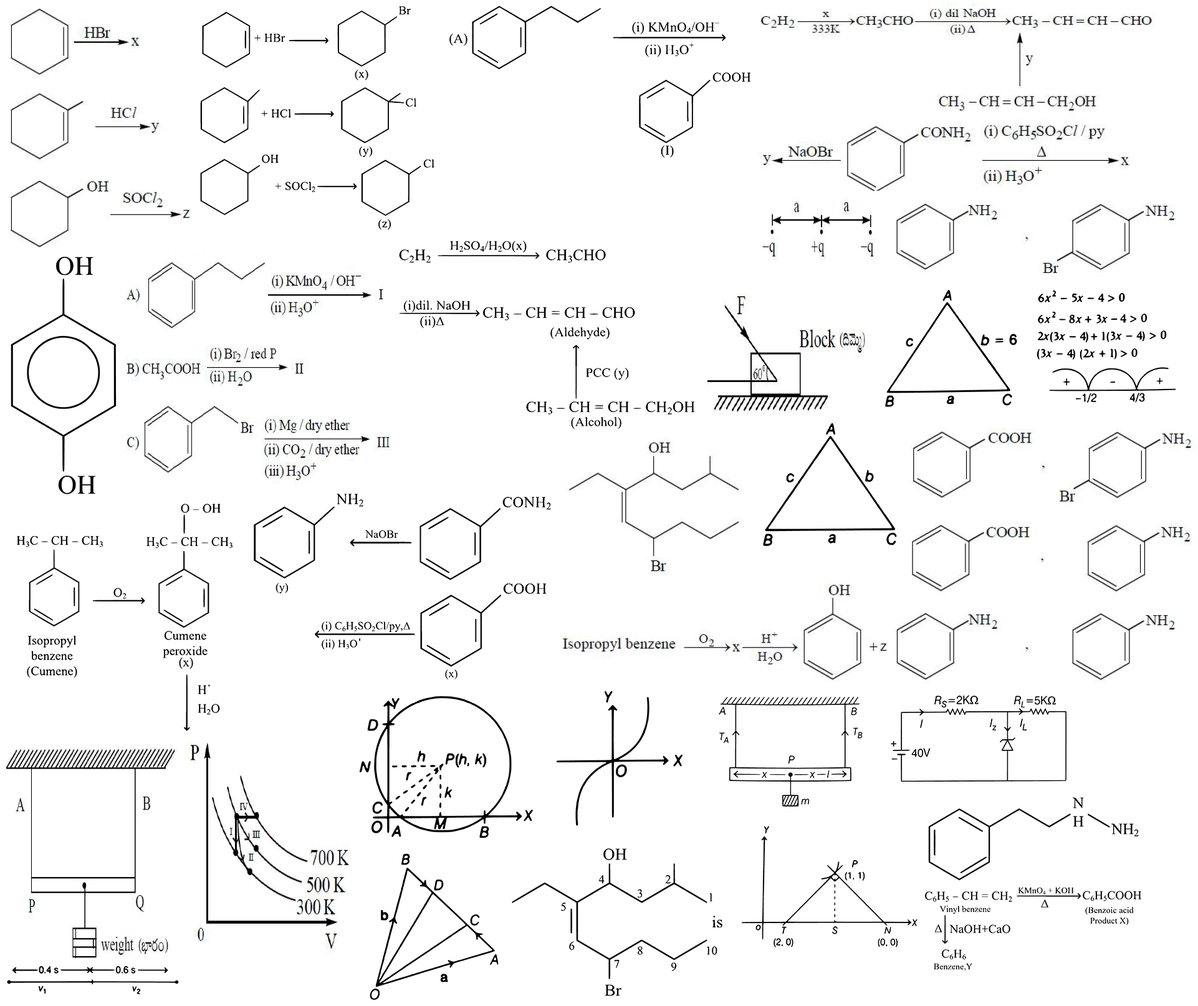
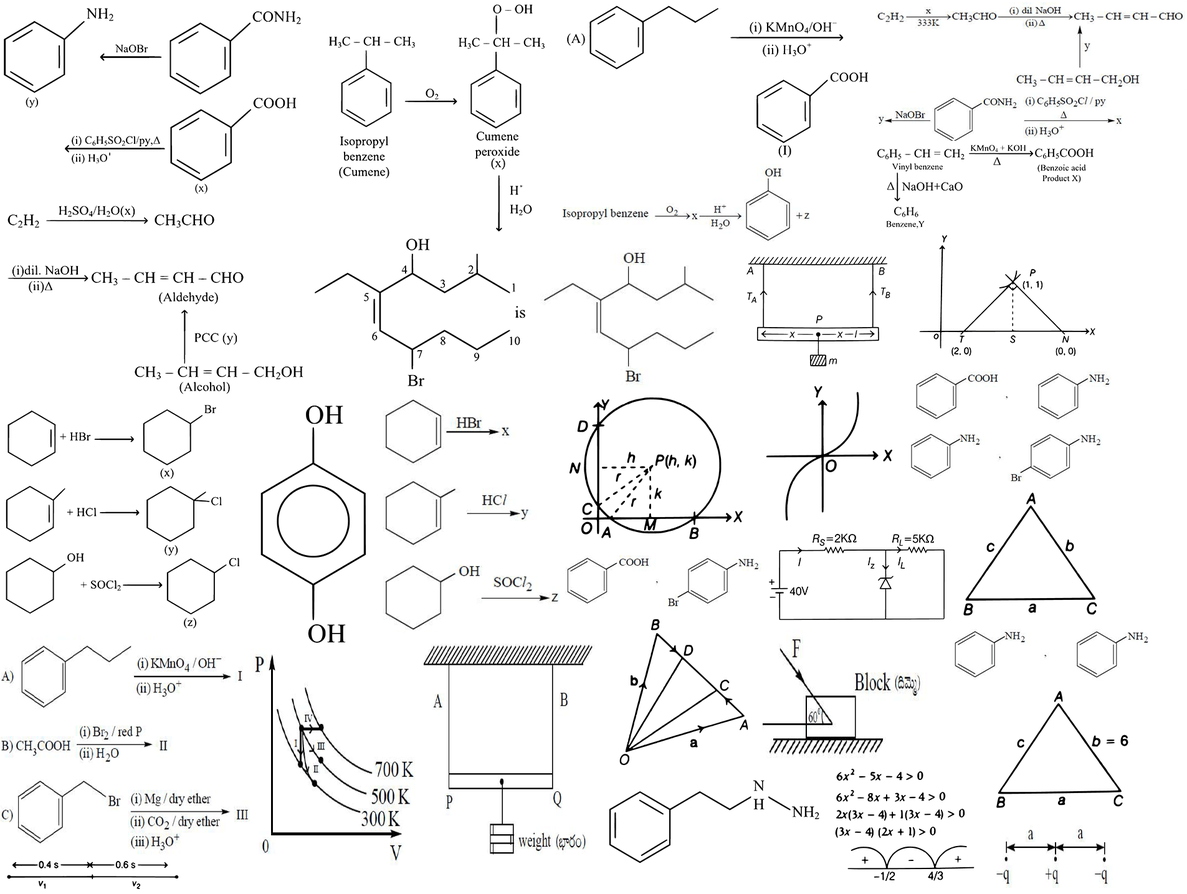
fexed

diff --git a/img/engg/eamcet/apeap/prev/eap21May2025s1.css b/img/engg/eamcet/apeap/prev/eap21May2025s1.css
@@ -7,117 +7,117 @@ Responsive: <div class="yourspritesname"></div>
 */
 
 .eap_21_may_2025_s1_q_105 {max-width:211px; max-height:120px; }
-.eap_21_may_2025_s1_q_105::after {content: '\00a0';display: inline-block; width:211px; height:120px; background-position: 70.36820572764465% 20.548862115127175%; background-size: 910.9004739336493% 1345%; background-image: url(eap21May2025s1_0.png);padding: 0; }
+.eap_21_may_2025_s1_q_105::after {content: '\00a0';display: inline-block; width:211px; height:120px; background-position: 93.27036599763872% 99.92395437262357%; background-size: 902.8436018957347% 1195.8333333333333%; background-image: url(eap21May2025s1_0.png);padding: 0; }
 div.eap_21_may_2025_s1_q_105::after {max-width:211px; width:100%;height:0;padding: 0 0 56.872037914691944% 0;}
 .eap_21_may_2025_s1_q_139 {max-width:300px; max-height:229px; }
-.eap_21_may_2025_s1_q_139::after {content: '\00a0';display: inline-block; width:300px; height:229px; background-position: 55.67200986436498% 50.324909747292416%; background-size: 640.6666666666666% 704.8034934497816%; background-image: url(eap21May2025s1_0.png);padding: 0; }
+.eap_21_may_2025_s1_q_139::after {content: '\00a0';display: inline-block; width:300px; height:229px; background-position: 53.769470404984425% 32.58706467661692%; background-size: 635% 626.6375545851529%; background-image: url(eap21May2025s1_0.png);padding: 0; }
 div.eap_21_may_2025_s1_q_139::after {max-width:300px; width:100%;height:0;padding: 0 0 76.33333333333333% 0;}
-.eap_21_may_2025_s1_q_156 {max-width:311px; max-height:400px; }
-.eap_21_may_2025_s1_q_156::after {content: '\00a0';display: inline-block; width:311px; height:400px; background-position: 0.06207324643078833% 0.08237232289950576%; background-size: 618.0064308681672% 403.5%; background-image: url(eap21May2025s1_0.png);padding: 0; }
-div.eap_21_may_2025_s1_q_156::after {max-width:311px; width:100%;height:0;padding: 0 0 128.61736334405145% 0;}
-.eap_21_may_2025_s1_q_157 {max-width:525px; max-height:171px; }
-.eap_21_may_2025_s1_q_157::after {content: '\00a0';display: inline-block; width:525px; height:171px; background-position: 64.63851109520401% 64.24116424116424%; background-size: 366.0952380952381% 943.859649122807%; background-image: url(eap21May2025s1_0.png);padding: 0; }
-div.eap_21_may_2025_s1_q_157::after {max-width:525px; width:100%;height:0;padding: 0 0 32.57142857142857% 0;}
-.eap_21_may_2025_s1_q_158 {max-width:640px; max-height:184px; }
-.eap_21_may_2025_s1_q_158::after {content: '\00a0';display: inline-block; width:640px; height:184px; background-position: 94.77379095163806% 0.06993006993006994%; background-size: 300.3125% 877.1739130434783%; background-image: url(eap21May2025s1_0.png);padding: 0; }
-div.eap_21_may_2025_s1_q_158::after {max-width:640px; width:100%;height:0;padding: 0 0 28.75% 0;}
-.eap_21_may_2025_s1_q_159 {max-width:426px; max-height:377px; }
-.eap_21_may_2025_s1_q_159::after {content: '\00a0';display: inline-block; width:426px; height:377px; background-position: 13.502673796791443% 32.49797898140663%; background-size: 451.1737089201878% 428.1167108753316%; background-image: url(eap21May2025s1_0.png);padding: 0; }
-div.eap_21_may_2025_s1_q_159::after {max-width:426px; width:100%;height:0;padding: 0 0 88.49765258215963% 0;}
-.eap_21_may_2025_s1_q_160 {max-width:602px; max-height:120px; }
-.eap_21_may_2025_s1_q_160::after {content: '\00a0';display: inline-block; width:602px; height:120px; background-position: 92.04545454545455% 12.449799196787149%; background-size: 319.2691029900332% 1345%; background-image: url(eap21May2025s1_0.png);padding: 0; }
-div.eap_21_may_2025_s1_q_160::after {max-width:602px; width:100%;height:0;padding: 0 0 19.93355481727575% 0;}
-.eap_21_may_2025_s1_q_160a {max-width:466px; max-height:148px; }
-.eap_21_may_2025_s1_q_160a::after {content: '\00a0';display: inline-block; width:466px; height:148px; background-position: 99.93131868131869% 45.70259208731242%; background-size: 412.44635193133047% 1090.5405405405406%; background-image: url(eap21May2025s1_0.png);padding: 0; }
-div.eap_21_may_2025_s1_q_160a::after {max-width:466px; width:100%;height:0;padding: 0 0 31.759656652360515% 0;}
-.eap_21_may_2025_s1_q_160b {max-width:461px; max-height:143px; }
-.eap_21_may_2025_s1_q_160b::after {content: '\00a0';display: inline-block; width:461px; height:143px; background-position: 99.58932238193019% 55.67641060503059%; background-size: 416.9197396963124% 1128.6713286713286%; background-image: url(eap21May2025s1_0.png);padding: 0; }
-div.eap_21_may_2025_s1_q_160b::after {max-width:461px; width:100%;height:0;padding: 0 0 31.019522776572668% 0;}
-.eap_21_may_2025_s1_q_160c {max-width:461px; max-height:143px; }
-.eap_21_may_2025_s1_q_160c::after {content: '\00a0';display: inline-block; width:461px; height:143px; background-position: 97.80971937029432% 65.46566961250849%; background-size: 416.9197396963124% 1128.6713286713286%; background-image: url(eap21May2025s1_0.png);padding: 0; }
-div.eap_21_may_2025_s1_q_160c::after {max-width:461px; width:100%;height:0;padding: 0 0 31.019522776572668% 0;}
-.eap_21_may_2025_s1_q_160d {max-width:470px; max-height:147px; }
-.eap_21_may_2025_s1_q_160d::after {content: '\00a0';display: inline-block; width:470px; height:147px; background-position: 98.4159779614325% 20.92706203135651%; background-size: 408.93617021276594% 1097.9591836734694%; background-image: url(eap21May2025s1_0.png);padding: 0; }
-div.eap_21_may_2025_s1_q_160d::after {max-width:470px; width:100%;height:0;padding: 0 0 31.27659574468085% 0;}
+.eap_21_may_2025_s1_q_156 {max-width:300px; max-height:386px; }
+.eap_21_may_2025_s1_q_156::after {content: '\00a0';display: inline-block; width:300px; height:386px; background-position: 37.570093457943926% 59.96186844613918%; background-size: 635% 371.7616580310881%; background-image: url(eap21May2025s1_0.png);padding: 0; }
+div.eap_21_may_2025_s1_q_156::after {max-width:300px; width:100%;height:0;padding: 0 0 128.66666666666666% 0;}
+.eap_21_may_2025_s1_q_157 {max-width:400px; max-height:130px; }
+.eap_21_may_2025_s1_q_157::after {content: '\00a0';display: inline-block; width:400px; height:130px; background-position: 60% 20.07662835249042%; background-size: 476.25% 1103.8461538461538%; background-image: url(eap21May2025s1_0.png);padding: 0; }
+div.eap_21_may_2025_s1_q_157::after {max-width:400px; width:100%;height:0;padding: 0 0 32.5% 0;}
+.eap_21_may_2025_s1_q_158 {max-width:500px; max-height:144px; }
+.eap_21_may_2025_s1_q_158::after {content: '\00a0';display: inline-block; width:500px; height:144px; background-position: 99.9288256227758% 0.07745933384972889%; background-size: 381% 996.5277777777778%; background-image: url(eap21May2025s1_0.png);padding: 0; }
+div.eap_21_may_2025_s1_q_158::after {max-width:500px; width:100%;height:0;padding: 0 0 28.8% 0;}
+.eap_21_may_2025_s1_q_159 {max-width:400px; max-height:354px; }
+.eap_21_may_2025_s1_q_159::after {content: '\00a0';display: inline-block; width:400px; height:354px; background-position: 0.0664451827242525% 94.26456984273821%; background-size: 476.25% 405.3672316384181%; background-image: url(eap21May2025s1_0.png);padding: 0; }
+div.eap_21_may_2025_s1_q_159::after {max-width:400px; width:100%;height:0;padding: 0 0 88.5% 0;}
+.eap_21_may_2025_s1_q_160 {max-width:400px; max-height:80px; }
+.eap_21_may_2025_s1_q_160::after {content: '\00a0';display: inline-block; width:400px; height:80px; background-position: 93.2890365448505% 10.77490774907749%; background-size: 476.25% 1793.75%; background-image: url(eap21May2025s1_0.png);padding: 0; }
+div.eap_21_may_2025_s1_q_160::after {max-width:400px; width:100%;height:0;padding: 0 0 20% 0;}
+.eap_21_may_2025_s1_q_160a {max-width:320px; max-height:102px; }
+.eap_21_may_2025_s1_q_160a::after {content: '\00a0';display: inline-block; width:320px; height:102px; background-position: 57.034700315457414% 66.0165041260315%; background-size: 595.3125% 1406.862745098039%; background-image: url(eap21May2025s1_0.png);padding: 0; }
+div.eap_21_may_2025_s1_q_160a::after {max-width:320px; width:100%;height:0;padding: 0 0 31.875% 0;}
+.eap_21_may_2025_s1_q_160b {max-width:320px; max-height:99px; }
+.eap_21_may_2025_s1_q_160b::after {content: '\00a0';display: inline-block; width:320px; height:99px; background-position: 92.42902208201893% 43.637724550898206%; background-size: 595.3125% 1449.4949494949494%; background-image: url(eap21May2025s1_0.png);padding: 0; }
+div.eap_21_may_2025_s1_q_160b::after {max-width:320px; width:100%;height:0;padding: 0 0 30.9375% 0;}
+.eap_21_may_2025_s1_q_160c {max-width:320px; max-height:99px; }
+.eap_21_may_2025_s1_q_160c::after {content: '\00a0';display: inline-block; width:320px; height:99px; background-position: 96.27760252365931% 74.77544910179641%; background-size: 595.3125% 1449.4949494949494%; background-image: url(eap21May2025s1_0.png);padding: 0; }
+div.eap_21_may_2025_s1_q_160c::after {max-width:320px; width:100%;height:0;padding: 0 0 30.9375% 0;}
+.eap_21_may_2025_s1_q_160d {max-width:320px; max-height:100px; }
+.eap_21_may_2025_s1_q_160d::after {content: '\00a0';display: inline-block; width:320px; height:100px; background-position: 91.86119873817034% 51.161048689138575%; background-size: 595.3125% 1435%; background-image: url(eap21May2025s1_0.png);padding: 0; }
+div.eap_21_may_2025_s1_q_160d::after {max-width:320px; width:100%;height:0;padding: 0 0 31.25% 0;}
 .eap_21_may_2025_s1_q_67 {max-width:250px; max-height:200px; }
-.eap_21_may_2025_s1_q_67::after {content: '\00a0';display: inline-block; width:250px; height:200px; background-position: 98.80382775119617% 32.17821782178218%; background-size: 768.8% 807%; background-image: url(eap21May2025s1_0.png);padding: 0; }
+.eap_21_may_2025_s1_q_67::after {content: '\00a0';display: inline-block; width:250px; height:200px; background-position: 80.30211480362537% 99.02834008097166%; background-size: 762% 717.5%; background-image: url(eap21May2025s1_0.png);padding: 0; }
 div.eap_21_may_2025_s1_q_67::after {max-width:250px; width:100%;height:0;padding: 0 0 80% 0;}
 .eap_21_may_2025_s1_q_86 {max-width:270px; max-height:216px; }
-.eap_21_may_2025_s1_q_86::after {content: '\00a0';display: inline-block; width:270px; height:216px; background-position: 68.40193704600485% 32.546494992846924%; background-size: 711.8518518518518% 747.2222222222222%; background-image: url(eap21May2025s1_0.png);padding: 0; }
+.eap_21_may_2025_s1_q_86::after {content: '\00a0';display: inline-block; width:270px; height:216px; background-position: 74.5565749235474% 82.52666119770304%; background-size: 705.5555555555555% 664.3518518518518%; background-image: url(eap21May2025s1_0.png);padding: 0; }
 div.eap_21_may_2025_s1_q_86::after {max-width:270px; width:100%;height:0;padding: 0 0 80% 0;}
 .eap_21_may_2025_s1_q_94 {max-width:296px; max-height:359px; }
-.eap_21_may_2025_s1_q_94::after {content: '\00a0';display: inline-block; width:296px; height:359px; background-position: 0.06150061500615006% 94.18326693227091%; background-size: 649.3243243243244% 449.58217270194984%; background-image: url(eap21May2025s1_0.png);padding: 0; }
+.eap_21_may_2025_s1_q_94::after {content: '\00a0';display: inline-block; width:296px; height:359px; background-position: 41.702921068986946% 94.42379182156134%; background-size: 643.581081081081% 399.7214484679666%; background-image: url(eap21May2025s1_0.png);padding: 0; }
 div.eap_21_may_2025_s1_q_94::after {max-width:296px; width:100%;height:0;padding: 0 0 121.28378378378379% 0;}
 .eap_21_may_2025_s1_q_99 {max-width:268px; max-height:349px; }
-.eap_21_may_2025_s1_q_99::after {content: '\00a0';display: inline-block; width:268px; height:349px; background-position: 18.016928657799273% 93.43873517786561%; background-size: 717.1641791044776% 462.46418338108884%; background-image: url(eap21May2025s1_0.png);padding: 0; }
+.eap_21_may_2025_s1_q_99::after {content: '\00a0';display: inline-block; width:268px; height:349px; background-position: 24.557116676847894% 95.85635359116021%; background-size: 710.820895522388% 411.17478510028656%; background-image: url(eap21May2025s1_0.png);padding: 0; }
 div.eap_21_may_2025_s1_q_99::after {max-width:268px; width:100%;height:0;padding: 0 0 130.22388059701493% 0;}
 .eap_21_may_2025_s1_sol_118 {max-width:300px; max-height:157px; }
-.eap_21_may_2025_s1_sol_118::after {content: '\00a0';display: inline-block; width:300px; height:157px; background-position: 87.5462392108508% 75.9780370624571%; background-size: 640.6666666666666% 1028.0254777070063%; background-image: url(eap21May2025s1_0.png);padding: 0; }
+.eap_21_may_2025_s1_sol_118::after {content: '\00a0';display: inline-block; width:300px; height:157px; background-position: 76.32398753894081% 66.35367762128325%; background-size: 635% 914.0127388535032%; background-image: url(eap21May2025s1_0.png);padding: 0; }
 div.eap_21_may_2025_s1_sol_118::after {max-width:300px; width:100%;height:0;padding: 0 0 52.333333333333336% 0;}
 .eap_21_may_2025_s1_sol_124 {max-width:200px; max-height:399px; }
-.eap_21_may_2025_s1_sol_124::after {content: '\00a0';display: inline-block; width:200px; height:399px; background-position: 0.05807200929152149% 33.08641975308642%; background-size: 961% 404.5112781954887%; background-image: url(eap21May2025s1_0.png);padding: 0; }
+.eap_21_may_2025_s1_sol_124::after {content: '\00a0';display: inline-block; width:200px; height:399px; background-position: 23.577712609970675% 61.87258687258687%; background-size: 952.5% 359.64912280701753%; background-image: url(eap21May2025s1_0.png);padding: 0; }
 div.eap_21_may_2025_s1_sol_124::after {max-width:200px; width:100%;height:0;padding: 0 0 199.5% 0;}
 .eap_21_may_2025_s1_sol_138 {max-width:360px; max-height:143px; }
-.eap_21_may_2025_s1_sol_138::after {content: '\00a0';display: inline-block; width:360px; height:143px; background-position: 94.75032010243278% 96.39700883752549%; background-size: 533.8888888888889% 1128.6713286713286%; background-image: url(eap21May2025s1_0.png);padding: 0; }
+.eap_21_may_2025_s1_sol_138::after {content: '\00a0';display: inline-block; width:360px; height:143px; background-position: 90.87378640776699% 17.569659442724458%; background-size: 529.1666666666666% 1003.4965034965035%; background-image: url(eap21May2025s1_0.png);padding: 0; }
 div.eap_21_may_2025_s1_sol_138::after {max-width:360px; width:100%;height:0;padding: 0 0 39.72222222222222% 0;}
 .eap_21_may_2025_s1_sol_139 {max-width:360px; max-height:247px; }
-.eap_21_may_2025_s1_sol_139::after {content: '\00a0';display: inline-block; width:360px; height:247px; background-position: 52.36875800256082% 99.41477688368691%; background-size: 533.8888888888889% 653.4412955465586%; background-image: url(eap21May2025s1_0.png);padding: 0; }
+.eap_21_may_2025_s1_sol_139::after {content: '\00a0';display: inline-block; width:360px; height:247px; background-position: 32.49190938511327% 32.07070707070707%; background-size: 529.1666666666666% 580.9716599190283%; background-image: url(eap21May2025s1_0.png);padding: 0; }
 div.eap_21_may_2025_s1_sol_139::after {max-width:360px; width:100%;height:0;padding: 0 0 68.61111111111111% 0;}
 .eap_21_may_2025_s1_sol_154 {max-width:360px; max-height:152px; }
-.eap_21_may_2025_s1_sol_154::after {content: '\00a0';display: inline-block; width:360px; height:152px; background-position: 94.75032010243278% 86.52530779753762%; background-size: 533.8888888888889% 1061.842105263158%; background-image: url(eap21May2025s1_0.png);padding: 0; }
+.eap_21_may_2025_s1_sol_154::after {content: '\00a0';display: inline-block; width:360px; height:152px; background-position: 62.653721682847895% 96.49259547934528%; background-size: 529.1666666666666% 944.078947368421%; background-image: url(eap21May2025s1_0.png);padding: 0; }
 div.eap_21_may_2025_s1_sol_154::after {max-width:360px; width:100%;height:0;padding: 0 0 42.22222222222222% 0;}
 .eap_21_may_2025_s1_sol_156 {max-width:400px; max-height:377px; }
-.eap_21_may_2025_s1_sol_156::after {content: '\00a0';display: inline-block; width:400px; height:377px; background-position: 20.56504599211564% 0.08084074373484236%; background-size: 480.5% 428.1167108753316%; background-image: url(eap21May2025s1_0.png);padding: 0; }
+.eap_21_may_2025_s1_sol_156::after {content: '\00a0';display: inline-block; width:400px; height:377px; background-position: 0.0664451827242525% 60.58601134215501%; background-size: 476.25% 380.6366047745358%; background-image: url(eap21May2025s1_0.png);padding: 0; }
 div.eap_21_may_2025_s1_sol_156::after {max-width:400px; width:100%;height:0;padding: 0 0 94.25% 0;}
 .eap_21_may_2025_s1_sol_157 {max-width:400px; max-height:379px; }
-.eap_21_may_2025_s1_sol_157::after {content: '\00a0';display: inline-block; width:400px; height:379px; background-position: 0.0657030223390276% 64.93927125506073%; background-size: 480.5% 425.8575197889182%; background-image: url(eap21May2025s1_0.png);padding: 0; }
+.eap_21_may_2025_s1_sol_157::after {content: '\00a0';display: inline-block; width:400px; height:379px; background-position: 33.35548172757475% 0.0946969696969697%; background-size: 476.25% 378.62796833773086%; background-image: url(eap21May2025s1_0.png);padding: 0; }
 div.eap_21_may_2025_s1_sol_157::after {max-width:400px; width:100%;height:0;padding: 0 0 94.75% 0;}
 .eap_21_may_2025_s1_sol_158 {max-width:500px; max-height:317px; }
-.eap_21_may_2025_s1_sol_158::after {content: '\00a0';display: inline-block; width:500px; height:317px; background-position: 44.23347398030943% 29.221279876638395%; background-size: 384.4% 509.1482649842271%; background-image: url(eap21May2025s1_0.png);padding: 0; }
+.eap_21_may_2025_s1_sol_158::after {content: '\00a0';display: inline-block; width:500px; height:317px; background-position: 0.0711743772241993% 28.89087656529517%; background-size: 381% 452.6813880126183%; background-image: url(eap21May2025s1_0.png);padding: 0; }
 div.eap_21_may_2025_s1_sol_158::after {max-width:500px; width:100%;height:0;padding: 0 0 63.4% 0;}
 .eap_21_may_2025_s1_sol_159 {max-width:500px; max-height:260px; }
-.eap_21_may_2025_s1_sol_159::after {content: '\00a0';display: inline-block; width:500px; height:260px; background-position: 50.21097046413502% 0.07385524372230429%; background-size: 384.4% 620.7692307692307%; background-image: url(eap21May2025s1_0.png);padding: 0; }
+.eap_21_may_2025_s1_sol_159::after {content: '\00a0';display: inline-block; width:500px; height:260px; background-position: 64.27046263345196% 0.0851063829787234%; background-size: 381% 551.9230769230769%; background-image: url(eap21May2025s1_0.png);padding: 0; }
 div.eap_21_may_2025_s1_sol_159::after {max-width:500px; width:100%;height:0;padding: 0 0 52% 0;}
 .eap_21_may_2025_s1_sol_160 {max-width:500px; max-height:321px; }
-.eap_21_may_2025_s1_sol_160::after {content: '\00a0';display: inline-block; width:500px; height:321px; background-position: 28.270042194092827% 60.324825986078885%; background-size: 384.4% 502.803738317757%; background-image: url(eap21May2025s1_0.png);padding: 0; }
+.eap_21_may_2025_s1_sol_160::after {content: '\00a0';display: inline-block; width:500px; height:321px; background-position: 0.0711743772241993% 0.08976660682226212%; background-size: 381% 447.0404984423676%; background-image: url(eap21May2025s1_0.png);padding: 0; }
 div.eap_21_may_2025_s1_sol_160::after {max-width:500px; width:100%;height:0;padding: 0 0 64.2% 0;}
 .eap_21_may_2025_s1_sol_26 {max-width:250px; max-height:214px; }
-.eap_21_may_2025_s1_sol_26::after {content: '\00a0';display: inline-block; width:250px; height:214px; background-position: 72.00956937799043% 48%; background-size: 768.8% 754.2056074766355%; background-image: url(eap21May2025s1_0.png);padding: 0; }
+.eap_21_may_2025_s1_sol_26::after {content: '\00a0';display: inline-block; width:250px; height:214px; background-position: 92.20543806646526% 64.20966420966421%; background-size: 762% 670.5607476635514%; background-image: url(eap21May2025s1_0.png);padding: 0; }
 div.eap_21_may_2025_s1_sol_26::after {max-width:250px; width:100%;height:0;padding: 0 0 85.6% 0;}
 .eap_21_may_2025_s1_sol_27 {max-width:250px; max-height:214px; }
-.eap_21_may_2025_s1_sol_27::after {content: '\00a0';display: inline-block; width:250px; height:214px; background-position: 83.79186602870813% 32.5%; background-size: 768.8% 754.2056074766355%; background-image: url(eap21May2025s1_0.png);padding: 0; }
+.eap_21_may_2025_s1_sol_27::after {content: '\00a0';display: inline-block; width:250px; height:214px; background-position: 95.46827794561933% 90.00819000819001%; background-size: 762% 670.5607476635514%; background-image: url(eap21May2025s1_0.png);padding: 0; }
 div.eap_21_may_2025_s1_sol_27::after {max-width:250px; width:100%;height:0;padding: 0 0 85.6% 0;}
 .eap_21_may_2025_s1_sol_30 {max-width:250px; max-height:254px; }
-.eap_21_may_2025_s1_sol_30::after {content: '\00a0';display: inline-block; width:250px; height:254px; background-position: 33.911483253588514% 99.92647058823529%; background-size: 768.8% 635.4330708661417%; background-image: url(eap21May2025s1_0.png);padding: 0; }
+.eap_21_may_2025_s1_sol_30::after {content: '\00a0';display: inline-block; width:250px; height:254px; background-position: 58.48942598187311% 83.23454699407282%; background-size: 762% 564.9606299212599%; background-image: url(eap21May2025s1_0.png);padding: 0; }
 div.eap_21_may_2025_s1_sol_30::after {max-width:250px; width:100%;height:0;padding: 0 0 101.6% 0;}
 .eap_21_may_2025_s1_sol_49 {max-width:300px; max-height:256px; }
-.eap_21_may_2025_s1_sol_49::after {content: '\00a0';display: inline-block; width:300px; height:256px; background-position: 34.956843403205916% 81.14874815905743%; background-size: 640.6666666666666% 630.46875%; background-image: url(eap21May2025s1_0.png);padding: 0; }
+.eap_21_may_2025_s1_sol_49::after {content: '\00a0';display: inline-block; width:300px; height:256px; background-position: 56.32398753894081% 52.84139100932994%; background-size: 635% 560.546875%; background-image: url(eap21May2025s1_0.png);padding: 0; }
 div.eap_21_may_2025_s1_sol_49::after {max-width:300px; width:100%;height:0;padding: 0 0 85.33333333333333% 0;}
 .eap_21_may_2025_s1_sol_62 {max-width:250px; max-height:234px; }
-.eap_21_may_2025_s1_sol_62::after {content: '\00a0';display: inline-block; width:250px; height:234px; background-position: 51.91387559808612% 79.85507246376811%; background-size: 768.8% 689.7435897435897%; background-image: url(eap21May2025s1_0.png);padding: 0; }
+.eap_21_may_2025_s1_sol_62::after {content: '\00a0';display: inline-block; width:250px; height:234px; background-position: 72.809667673716% 51.04079933388843%; background-size: 762% 613.2478632478633%; background-image: url(eap21May2025s1_0.png);padding: 0; }
 div.eap_21_may_2025_s1_sol_62::after {max-width:250px; width:100%;height:0;padding: 0 0 93.6% 0;}
 .eap_21_may_2025_s1_sol_65 {max-width:300px; max-height:211px; }
-.eap_21_may_2025_s1_sol_65::after {content: '\00a0';display: inline-block; width:300px; height:211px; background-position: 72.68803945745992% 94.0128296507484%; background-size: 640.6666666666666% 764.9289099526067%; background-image: url(eap21May2025s1_0.png);padding: 0; }
+.eap_21_may_2025_s1_sol_65::after {content: '\00a0';display: inline-block; width:300px; height:211px; background-position: 91.27725856697819% 30.31045751633987%; background-size: 635% 680.0947867298578%; background-image: url(eap21May2025s1_0.png);padding: 0; }
 div.eap_21_may_2025_s1_sol_65::after {max-width:300px; width:100%;height:0;padding: 0 0 70.33333333333333% 0;}
 .eap_21_may_2025_s1_sol_82 {max-width:300px; max-height:60px; }
-.eap_21_may_2025_s1_sol_82::after {content: '\00a0';display: inline-block; width:300px; height:60px; background-position: 0.06165228113440197% 99.22779922779922%; background-size: 640.6666666666666% 2690%; background-image: url(eap21May2025s1_0.png);padding: 0; }
+.eap_21_may_2025_s1_sol_82::after {content: '\00a0';display: inline-block; width:300px; height:60px; background-position: 0.06230529595015576% 99.92727272727272%; background-size: 635% 2391.6666666666665%; background-image: url(eap21May2025s1_0.png);padding: 0; }
 div.eap_21_may_2025_s1_sol_82::after {max-width:300px; width:100%;height:0;padding: 0 0 20% 0;}
 .eap_21_may_2025_s1_sol_94 {max-width:300px; max-height:219px; }
-.eap_21_may_2025_s1_sol_94::after {content: '\00a0';display: inline-block; width:300px; height:219px; background-position: 68.9889025893958% 78.78136200716845%; background-size: 640.6666666666666% 736.986301369863%; background-image: url(eap21May2025s1_0.png);padding: 0; }
+.eap_21_may_2025_s1_sol_94::after {content: '\00a0';display: inline-block; width:300px; height:219px; background-position: 72.5233644859813% 32.31907894736842%; background-size: 635% 655.2511415525114%; background-image: url(eap21May2025s1_0.png);padding: 0; }
 div.eap_21_may_2025_s1_sol_94::after {max-width:300px; width:100%;height:0;padding: 0 0 73% 0;}
 
 @keyframes eap_21_may_2025_s1_q-frames {
-    0% { background-position: 98.80382775119617% 32.17821782178218%;  }
-    9.090909090909092% { background-position: 68.40193704600485% 32.546494992846924%;  }
-    18.181818181818183% { background-position: 0.06150061500615006% 94.18326693227091%;  }
-    27.27272727272727% { background-position: 18.016928657799273% 93.43873517786561%;  }
-    36.36363636363637% { background-position: 70.36820572764465% 20.548862115127175%;  }
-    45.45454545454545% { background-position: 55.67200986436498% 50.324909747292416%;  }
-    54.54545454545454% { background-position: 0.06207324643078833% 0.08237232289950576%;  }
-    63.63636363636363% { background-position: 64.63851109520401% 64.24116424116424%;  }
-    72.72727272727273% { background-position: 94.77379095163806% 0.06993006993006994%;  }
-    81.81818181818183% { background-position: 13.502673796791443% 32.49797898140663%;  }
-    90.9090909090909% { background-position: 92.04545454545455% 12.449799196787149%;  }
+    0% { background-position: 80.30211480362537% 99.02834008097166%;  }
+    9.090909090909092% { background-position: 74.5565749235474% 82.52666119770304%;  }
+    18.181818181818183% { background-position: 41.702921068986946% 94.42379182156134%;  }
+    27.27272727272727% { background-position: 24.557116676847894% 95.85635359116021%;  }
+    36.36363636363637% { background-position: 93.27036599763872% 99.92395437262357%;  }
+    45.45454545454545% { background-position: 53.769470404984425% 32.58706467661692%;  }
+    54.54545454545454% { background-position: 37.570093457943926% 59.96186844613918%;  }
+    63.63636363636363% { background-position: 60% 20.07662835249042%;  }
+    72.72727272727273% { background-position: 99.9288256227758% 0.07745933384972889%;  }
+    81.81818181818183% { background-position: 0.0664451827242525% 94.26456984273821%;  }
+    90.9090909090909% { background-position: 93.2890365448505% 10.77490774907749%;  }
 }
 
 .eap_21_may_2025_s1_q-animation {
@@ -131,7 +131,7 @@ div.eap_21_may_2025_s1_sol_94::after {max-width:300px; width:100%;height:0;paddi
     height: 200px;
     padding: 0;
     background-image: url(eap21May2025s1_0.png);
-    background-size: 768.8% 807%; 
+    background-size: 762% 717.5%; 
     animation-name: eap_21_may_2025_s1_q-frames;
     animation-timing-function: steps(1);
     animation-duration: 1s;
@@ -145,24 +145,24 @@ div.eap_21_may_2025_s1_q-animation::after {
 }
 
 @keyframes eap_21_may_2025_s1_sol-frames {
-    0% { background-position: 72.00956937799043% 48%;  }
-    5.555555555555555% { background-position: 83.79186602870813% 32.5%;  }
-    11.11111111111111% { background-position: 33.911483253588514% 99.92647058823529%;  }
-    16.666666666666664% { background-position: 34.956843403205916% 81.14874815905743%;  }
-    22.22222222222222% { background-position: 51.91387559808612% 79.85507246376811%;  }
-    27.77777777777778% { background-position: 72.68803945745992% 94.0128296507484%;  }
-    33.33333333333333% { background-position: 0.06165228113440197% 99.22779922779922%;  }
-    38.88888888888889% { background-position: 68.9889025893958% 78.78136200716845%;  }
-    44.44444444444444% { background-position: 87.5462392108508% 75.9780370624571%;  }
-    50% { background-position: 0.05807200929152149% 33.08641975308642%;  }
-    55.55555555555556% { background-position: 94.75032010243278% 96.39700883752549%;  }
-    61.111111111111114% { background-position: 52.36875800256082% 99.41477688368691%;  }
-    66.66666666666666% { background-position: 94.75032010243278% 86.52530779753762%;  }
-    72.22222222222221% { background-position: 20.56504599211564% 0.08084074373484236%;  }
-    77.77777777777779% { background-position: 0.0657030223390276% 64.93927125506073%;  }
-    83.33333333333334% { background-position: 44.23347398030943% 29.221279876638395%;  }
-    88.88888888888889% { background-position: 50.21097046413502% 0.07385524372230429%;  }
-    94.44444444444444% { background-position: 28.270042194092827% 60.324825986078885%;  }
+    0% { background-position: 92.20543806646526% 64.20966420966421%;  }
+    5.555555555555555% { background-position: 95.46827794561933% 90.00819000819001%;  }
+    11.11111111111111% { background-position: 58.48942598187311% 83.23454699407282%;  }
+    16.666666666666664% { background-position: 56.32398753894081% 52.84139100932994%;  }
+    22.22222222222222% { background-position: 72.809667673716% 51.04079933388843%;  }
+    27.77777777777778% { background-position: 91.27725856697819% 30.31045751633987%;  }
+    33.33333333333333% { background-position: 0.06230529595015576% 99.92727272727272%;  }
+    38.88888888888889% { background-position: 72.5233644859813% 32.31907894736842%;  }
+    44.44444444444444% { background-position: 76.32398753894081% 66.35367762128325%;  }
+    50% { background-position: 23.577712609970675% 61.87258687258687%;  }
+    55.55555555555556% { background-position: 90.87378640776699% 17.569659442724458%;  }
+    61.111111111111114% { background-position: 32.49190938511327% 32.07070707070707%;  }
+    66.66666666666666% { background-position: 62.653721682847895% 96.49259547934528%;  }
+    72.22222222222221% { background-position: 0.0664451827242525% 60.58601134215501%;  }
+    77.77777777777779% { background-position: 33.35548172757475% 0.0946969696969697%;  }
+    83.33333333333334% { background-position: 0.0711743772241993% 28.89087656529517%;  }
+    88.88888888888889% { background-position: 64.27046263345196% 0.0851063829787234%;  }
+    94.44444444444444% { background-position: 0.0711743772241993% 0.08976660682226212%;  }
 }
 
 .eap_21_may_2025_s1_sol-animation {
@@ -176,7 +176,7 @@ div.eap_21_may_2025_s1_q-animation::after {
     height: 214px;
     padding: 0;
     background-image: url(eap21May2025s1_0.png);
-    background-size: 768.8% 754.2056074766355%; 
+    background-size: 762% 670.5607476635514%; 
     animation-name: eap_21_may_2025_s1_sol-frames;
     animation-timing-function: steps(1);
     animation-duration: 1s;
@@ -189,4 +189,4 @@ div.eap_21_may_2025_s1_sol-animation::after {
     padding: 0 0 85.6% 0;
 }
 
-/* $TexturePacker:SmartUpdate:33983356ceb256b029d20ca52f7d56d7:204cc1320a079ec2489d87a2749cd9e4:2e147c60198bc0a16ab14aa81dd5860b$ */
+/* $TexturePacker:SmartUpdate:32b19b43677aba96c7137993b25c9cf2:4618a94392aa5182ea244e7c4ec3f30e:2e147c60198bc0a16ab14aa81dd5860b$ */
